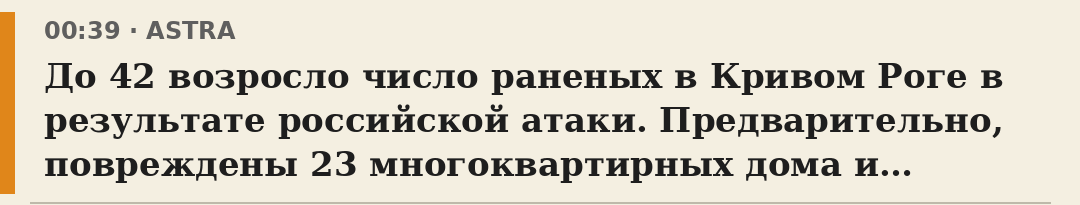
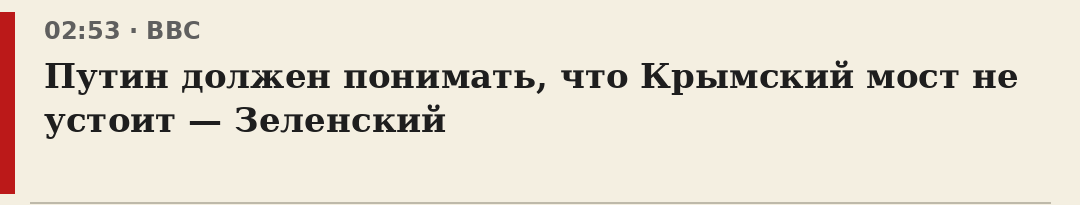
update

Changed region(s): [[0.0, 0.0585, 0.9472, 0.9659]]

diff --git a/index.html b/index.html
@@ -11,5 +11,6 @@ h1{margin:0;font-size:30px;letter-spacing:1px}
 h2{margin:0 0 6px;font-size:19px;line-height:1.25}
 p{margin:0;color:var(--gray);font-size:15px;line-height:1.4}
 .empty{text-align:center;color:var(--gray);padding:40px 0}
-</style></head><body><header><h1>НОВОСТНАЯ ГАЗЕТА</h1><div class="sub">21 ноября 2026 · BBC · Медуза · ASTRA · новостей: 2</div></header><a class="item" style="border-left:5px solid #e0861a" href="https://t.me/astrapress/131743"><div class="meta">00:39 · ASTRA</div><h2>До 42 возросло число раненых в Кривом Роге в результате российской атаки. Предварительно, повреждены 23 многоквартирных дома и больница, — власти</h2><p>«Уже 42 раненых, из них четверо детей. Погибли девушка 20 лет и 7-летний мальчик. В тяжелом состоянии – 27 человек. Врачи оказывают им и всем пострадавшим всю необходимую помощь.</p></a>
+</style></head><body><header><h1>НОВОСТНАЯ ГАЗЕТА</h1><div class="sub">21 ноября 2026 · BBC · Медуза · ASTRA · новостей: 3</div></header><a class="item" style="border-left:5px solid #bb1919" href="https://t.me/bbcrussian/101688"><div class="meta">02:53 · BBC</div><h2>Путин должен понимать, что Крымский мост не устоит — Зеленский</h2><p>Президент Украины Владимир Зеленский заявил, что Крымский мост будет уничтожен, и российский лидер Владимир Путин должен это понять.</p></a>
+<a class="item" style="border-left:5px solid #e0861a" href="https://t.me/astrapress/131743"><div class="meta">00:39 · ASTRA</div><h2>До 42 возросло число раненых в Кривом Роге в результате российской атаки. Предварительно, повреждены 23 многоквартирных дома и больница, — власти</h2><p>«Уже 42 раненых, из них четверо детей. Погибли девушка 20 лет и 7-летний мальчик. В тяжелом состоянии – 27 человек. Врачи оказывают им и всем пострадавшим всю необходимую помощь.</p></a>
 <a class="item" style="border-left:5px solid #2f7bd9" href="https://t.me/meduzalive/150881"><div class="meta">00:05 · Медуза</div><h2>Главные новости 20 ноября</h2><p>Россия нанесла массированный удар по Украине на следующий день после встречи Путина с Трампом и Си. В Киеве повреждены три моста. В Польше упали две ракеты и беспилотник. Точные сроки восстановления Крымского моста пока неизвестны, заявили в правительстве РФ.</p></a></body></html>

diff --git a/r1.html b/r1.html
@@ -1,1 +1,1 @@
-<!DOCTYPE html><html><head><meta charset="utf-8"><meta http-equiv="refresh" content="0; url=https://t.me/astrapress/131743"><title>Открываю…</title></head><body><script>location.replace("https://t.me/astrapress/131743")</script><p><a href="https://t.me/astrapress/131743">Открыть новость</a></p></body></html>
+<!DOCTYPE html><html><head><meta charset="utf-8"><meta http-equiv="refresh" content="0; url=https://t.me/bbcrussian/101688"><title>Открываю…</title></head><body><script>location.replace("https://t.me/bbcrussian/101688")</script><p><a href="https://t.me/bbcrussian/101688">Открыть новость</a></p></body></html>

diff --git a/r2.html b/r2.html
@@ -1,1 +1,1 @@
-<!DOCTYPE html><html><head><meta charset="utf-8"><meta http-equiv="refresh" content="0; url=https://t.me/meduzalive/150881"><title>Открываю…</title></head><body><script>location.replace("https://t.me/meduzalive/150881")</script><p><a href="https://t.me/meduzalive/150881">Открыть новость</a></p></body></html>
+<!DOCTYPE html><html><head><meta charset="utf-8"><meta http-equiv="refresh" content="0; url=https://t.me/astrapress/131743"><title>Открываю…</title></head><body><script>location.replace("https://t.me/astrapress/131743")</script><p><a href="https://t.me/astrapress/131743">Открыть новость</a></p></body></html>

diff --git a/r3.html b/r3.html
@@ -1,1 +1,1 @@
-<!DOCTYPE html><html><head><meta charset="utf-8"><meta http-equiv="refresh" content="0; url=index.html"><title>Открываю…</title></head><body><script>location.replace("index.html")</script><p><a href="index.html">Открыть новость</a></p></body></html>
+<!DOCTYPE html><html><head><meta charset="utf-8"><meta http-equiv="refresh" content="0; url=https://t.me/meduzalive/150881"><title>Открываю…</title></head><body><script>location.replace("https://t.me/meduzalive/150881")</script><p><a href="https://t.me/meduzalive/150881">Открыть новость</a></p></body></html>
